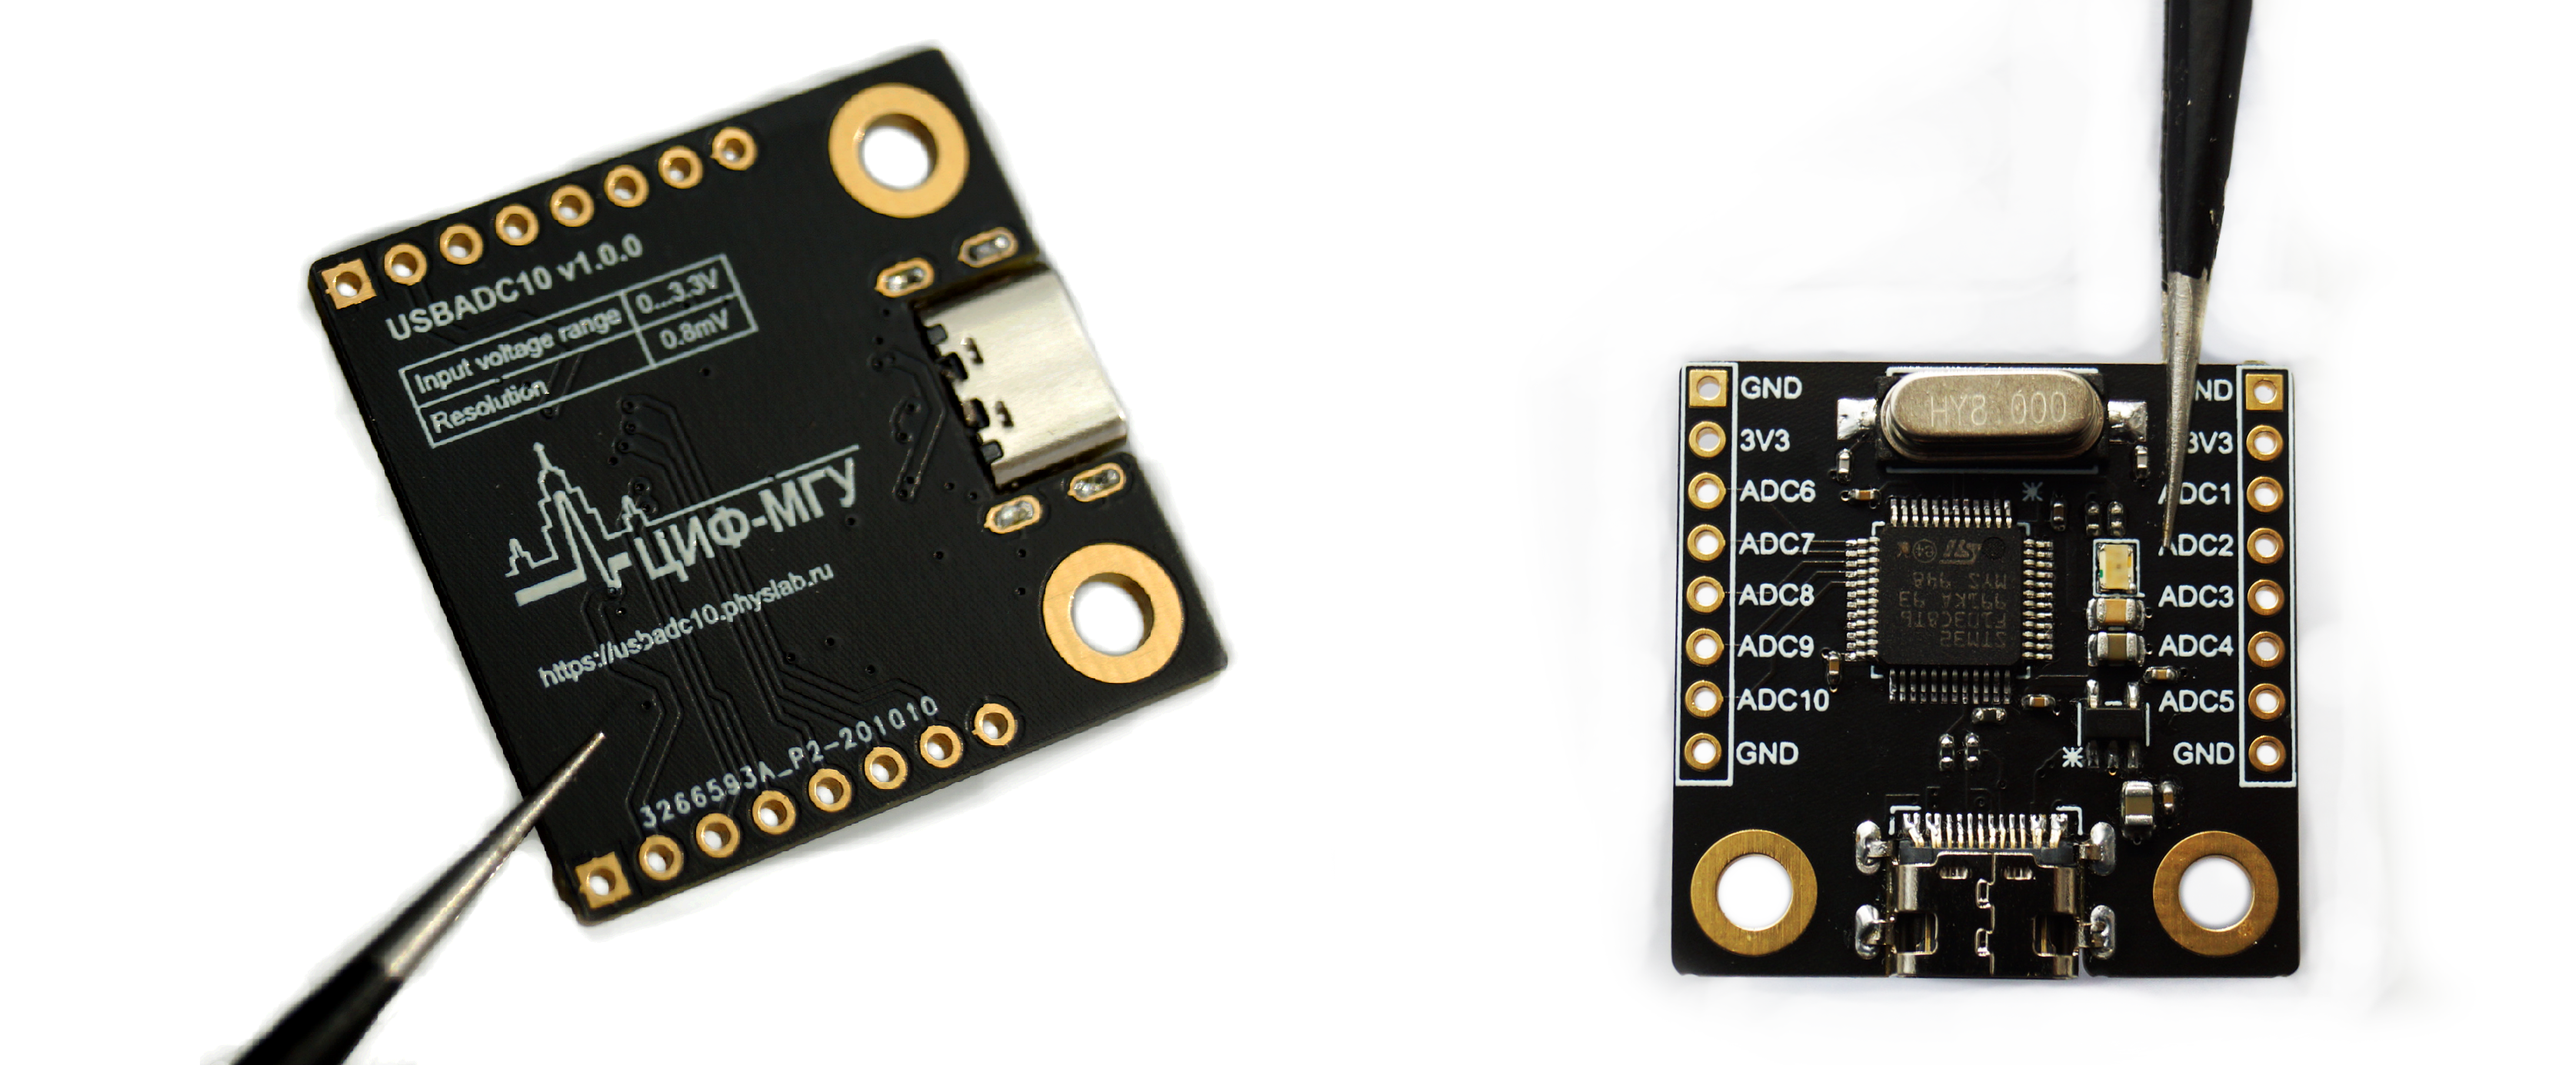
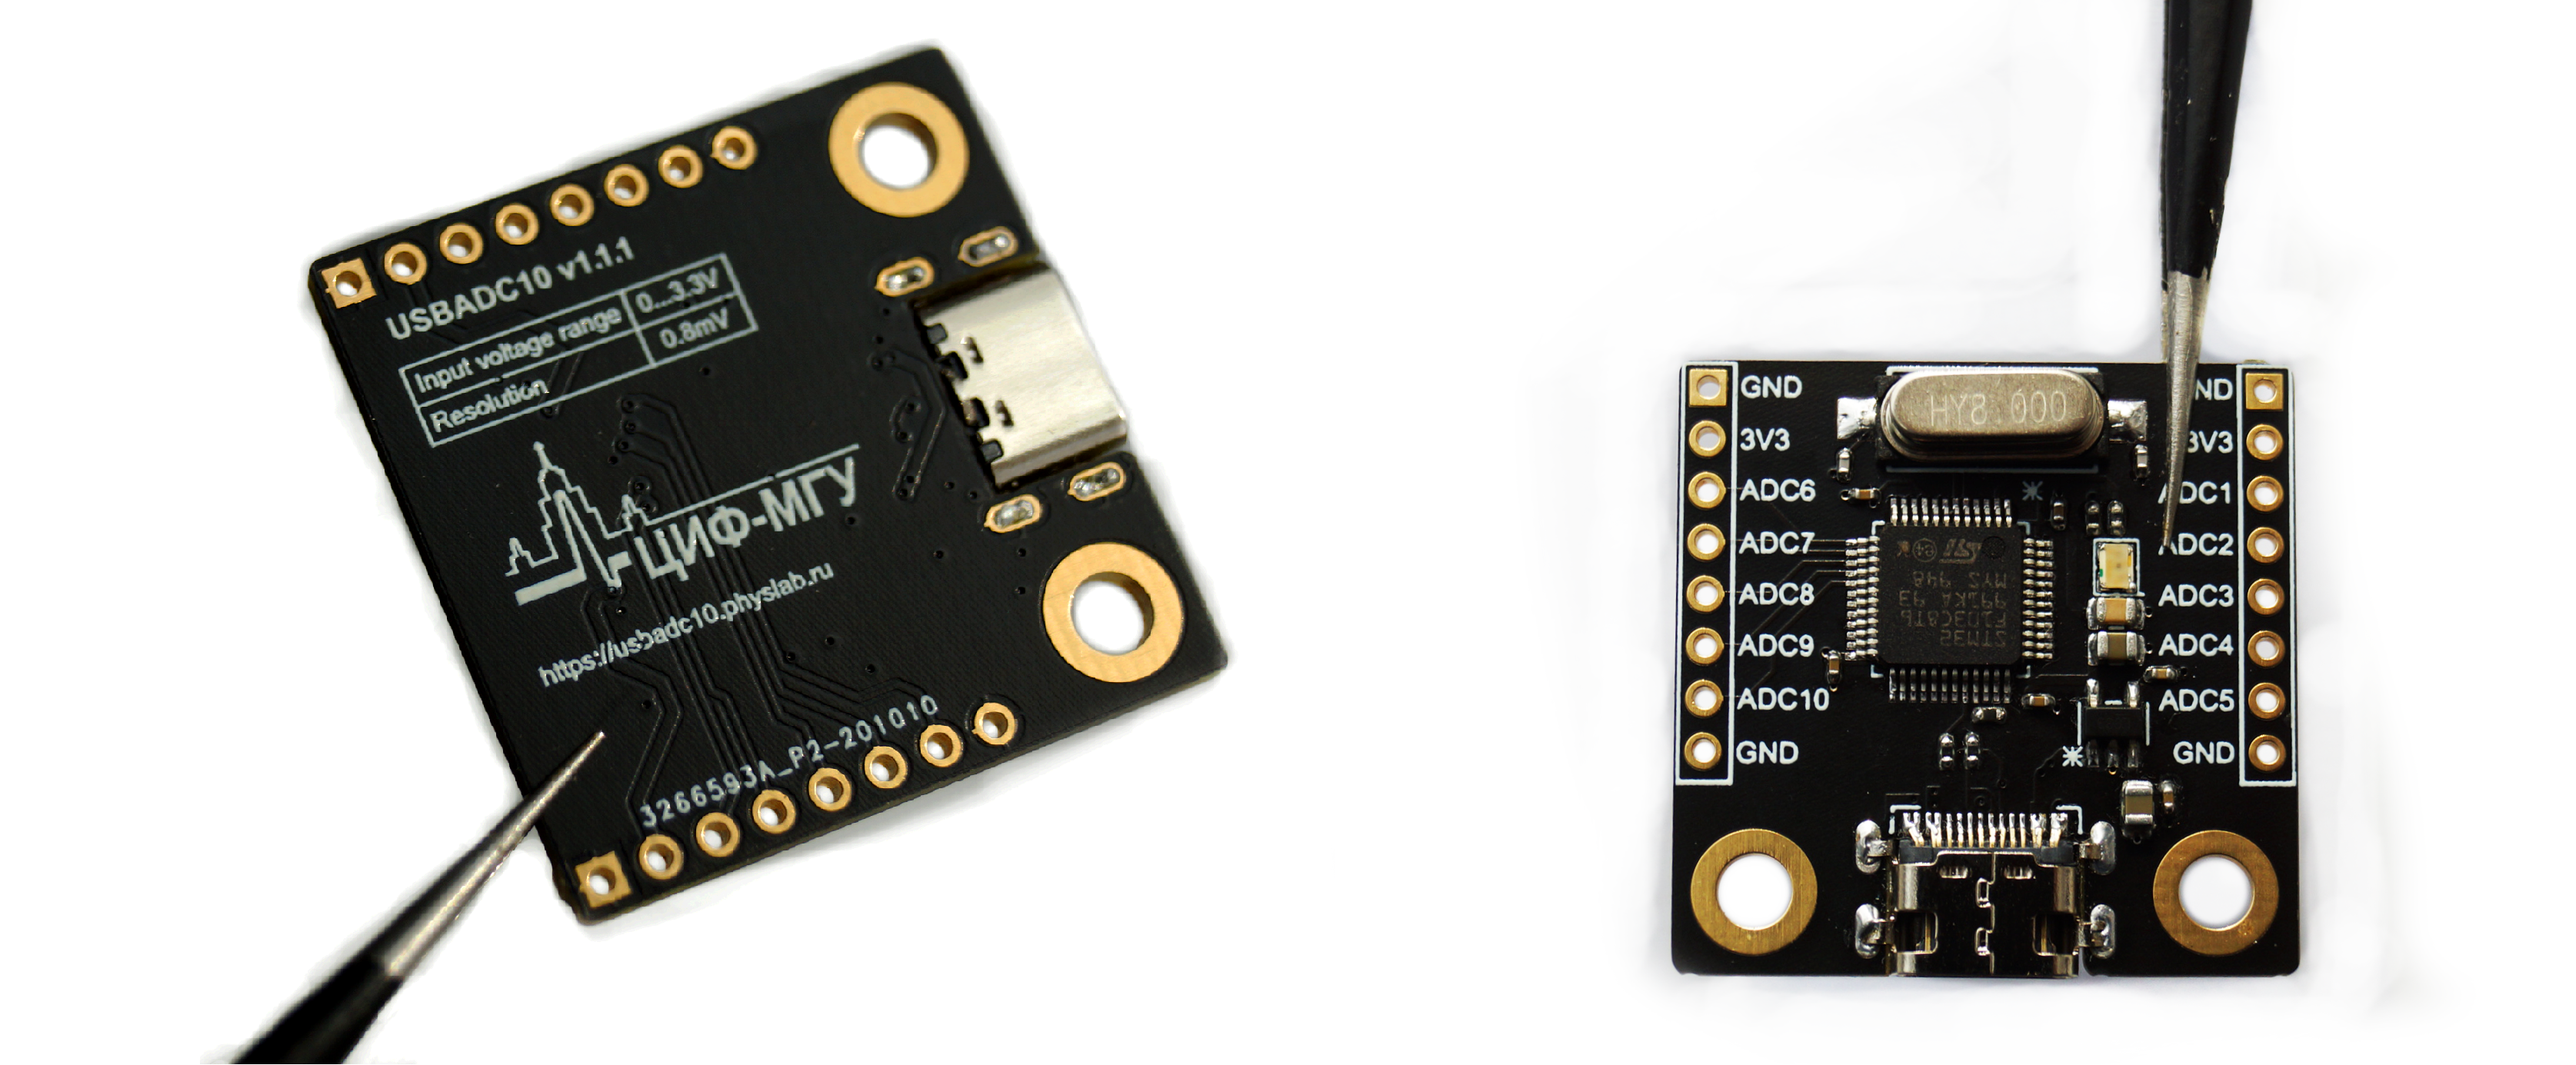
fix usbadc site (#97306)

diff --git a/sites/usbadc10/data/products.py b/sites/usbadc10/data/products.py
@@ -4,7 +4,7 @@ from site_engine.translator.translator import _
 products = (
     Product(
         name="USB_ADC",
-        friendly_name=_("usbadc10 v1.0.0"),
+        friendly_name=_("usbadc10 v1.1.1"),
         picture="usbadc10.png",
         description=[
             _("Аналого-цифровой преобразователь")
@@ -12,8 +12,7 @@ products = (
         extended_description=[
             _("Аналого-цифровой преобразователь usbadc10 имеет частоту до 4000 отсчётов в секунду, "
               "одновременно по всем каналам. В комплекте с устройством поставляется программное "
-              "обеспечение для получения измерений. ПО поддерживается ОС Windows и Linux. Все необходимое "
-              "<b>программное обеспечение</b> можно найти в свободном доступе. ")
+              "обеспечение для получения измерений. ПО поддерживается ОС Windows и Linux. ")
         ],
         highlights=[
             _("10 каналов"),

diff --git a/sites/usbadc10/data/download.py b/sites/usbadc10/data/download.py
@@ -38,7 +38,7 @@ categories = (
         icon="browse_activity.svg",
         description=_(
             "Пользовательское программное обеспечение для получения зависимостей "
-            "напряжения от времени с помощью многоканальных АЦП usbadc10. "
+            "напряжения от времени с помощью многоканального АЦП usbadc10. "
             "Для работы ПО потребуется драйвер. Его можно скачать на данной странице вместе с программой."
         ),
     ),
